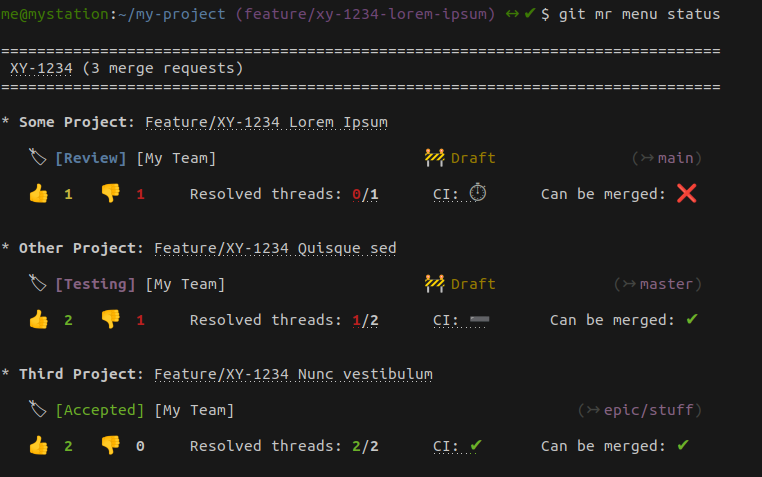
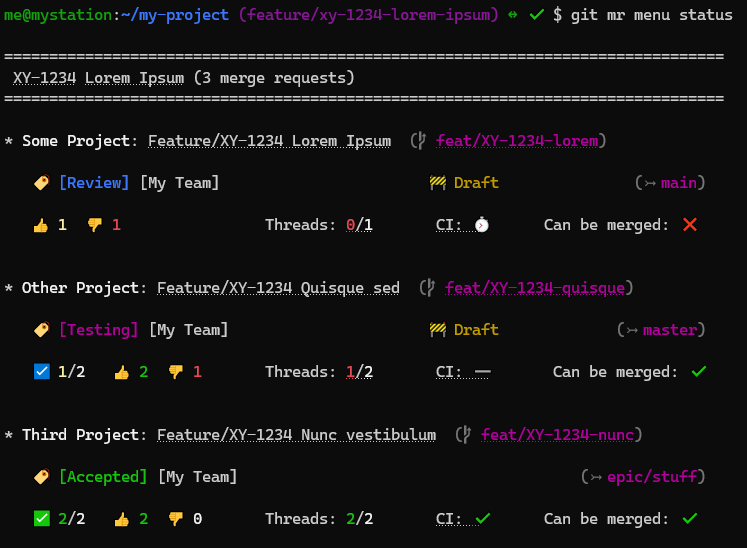
Documentation

diff --git a/README.md b/README.md
@@ -280,6 +280,19 @@ export JIRA_OK_ID="xx"
 #export GIT_MR_TIMEOUT=10
 ```
 
+Environment-only configuration:
+```bash
+## What to show as merge request title in `git mr menu status`. Available values:
+## - "both":   Merge request title and branch (default)
+## - "title":  Merge request title only
+## - "branch": Merge request source branch only
+#GIT_MR_MENU_STATUS_SHOW=both
+
+## Separator between merge request title and branch when GIT_MR_MENU_STATUS_SHOW=both 
+#GIT_MR_MENU_STATUS_TITLE_BRANCH_SEPARATOR="  "    # default
+#GIT_MR_MENU_STATUS_TITLE_BRANCH_SEPARATOR="\n   " # send to the next line
+```
+
 #### Jira & Gitlab tokens
 
 To create a Jira API Token, go to:
